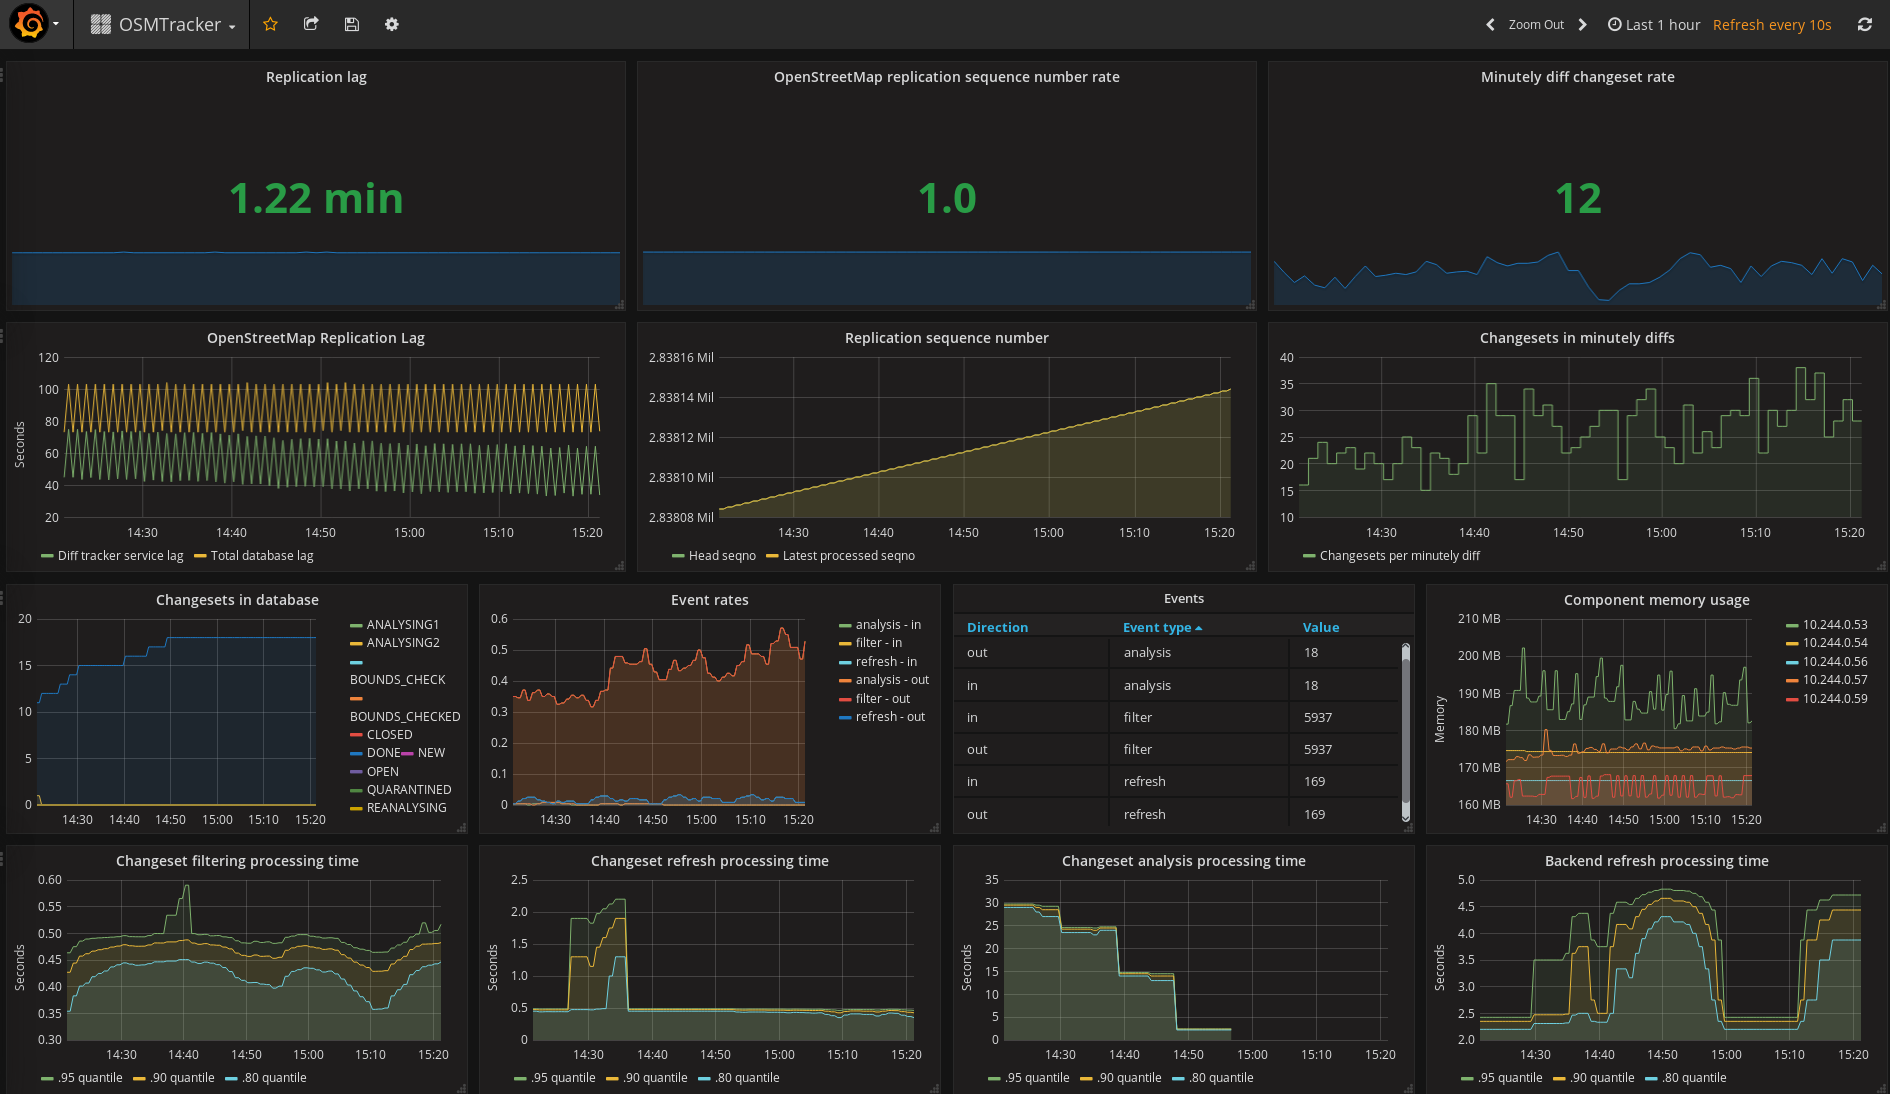
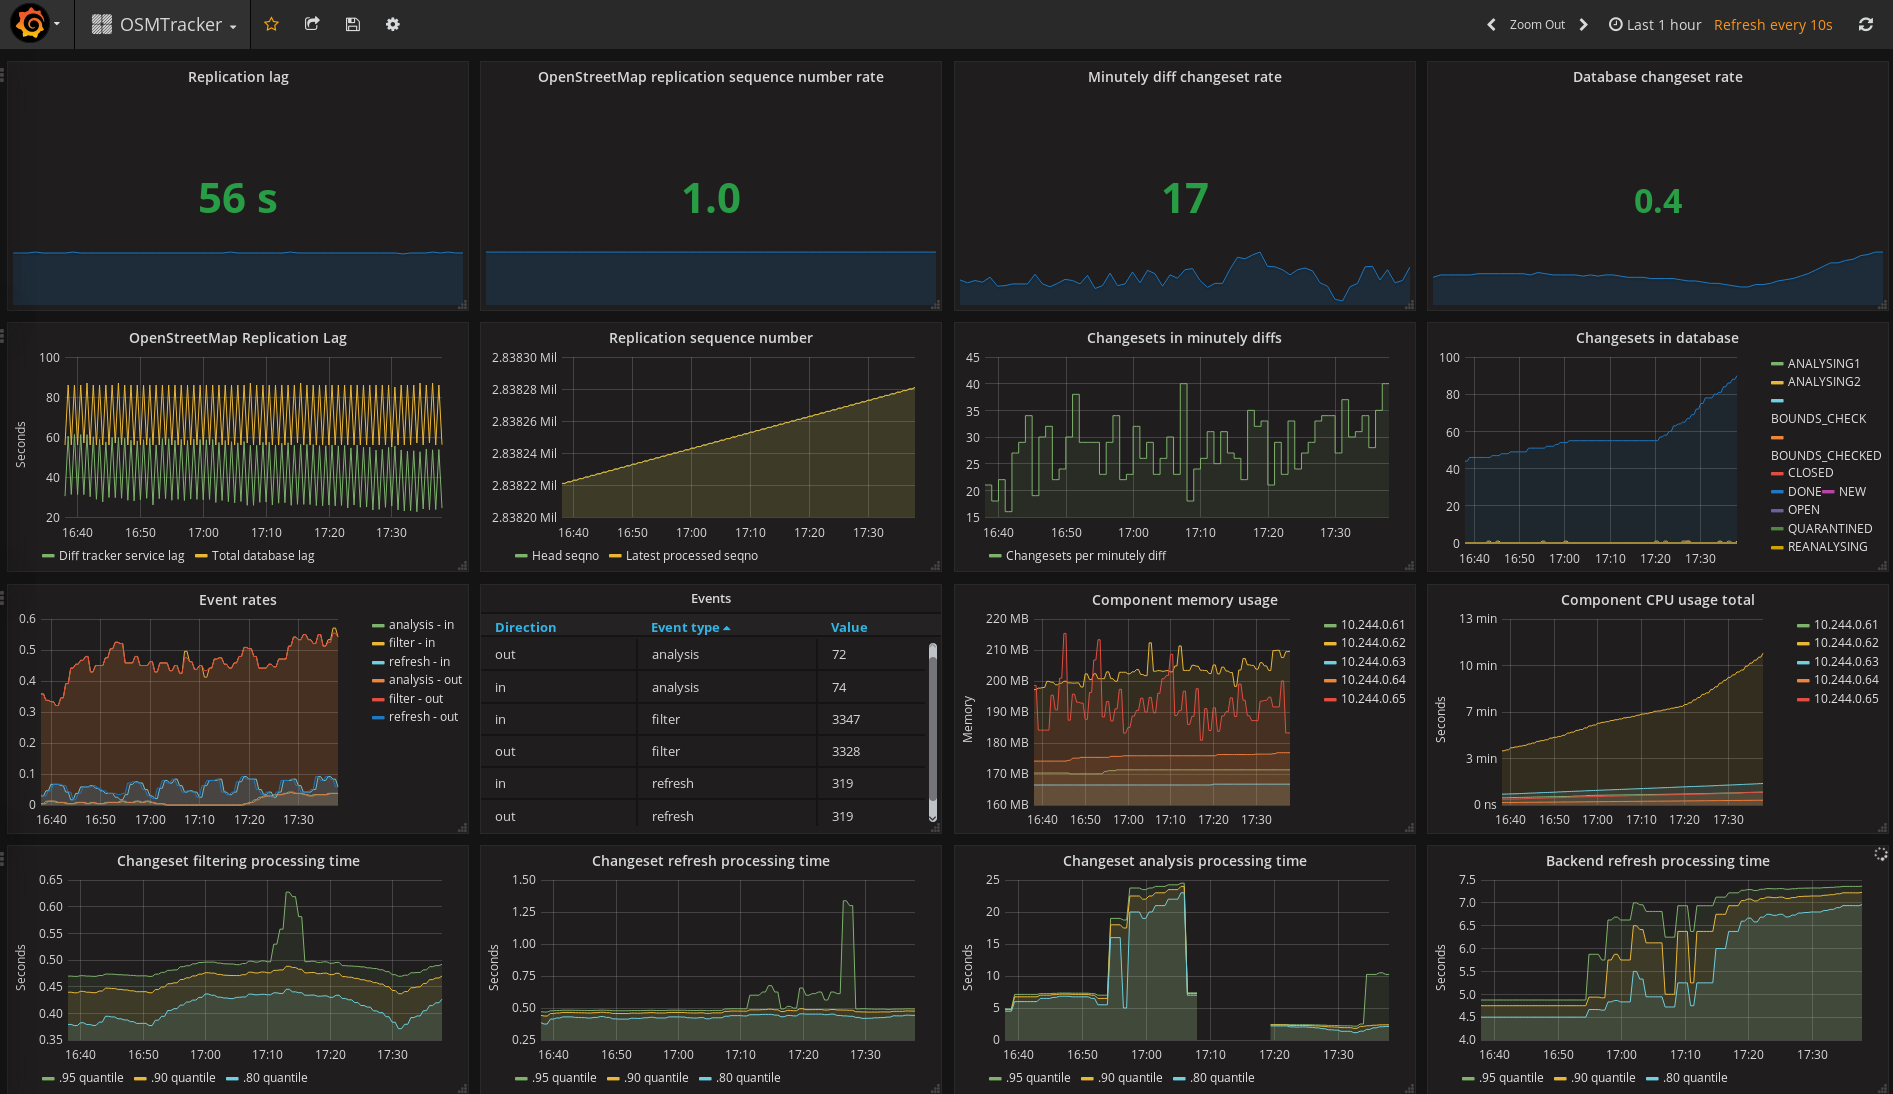
Update dashboard with database changeset rate and component cpu usage

diff --git a/kubernetes/README.md b/kubernetes/README.md
@@ -62,8 +62,12 @@ problems. The panels in the first row shows:
 - Replication sequence number rate. Since a new sequence number is used for each
   minutely diff from OpenStreetMap, this value should be approximately 1.
 
-- The rate of changesets in the minutely diffs. Generally this should be larger
-  than zero (unless everyone stops editing OpenStreetMap data).
+- The rate of changesets in the minutely diffs (i.e. changesets per
+  minute). Generally this should be larger than zero (unless everyone stops
+  editing OpenStreetMap data).
+
+- The rate of changesets matching the filtering (hourly rate). Generally this
+  should be larger than zero.
 
 The metrics exported are:
 
